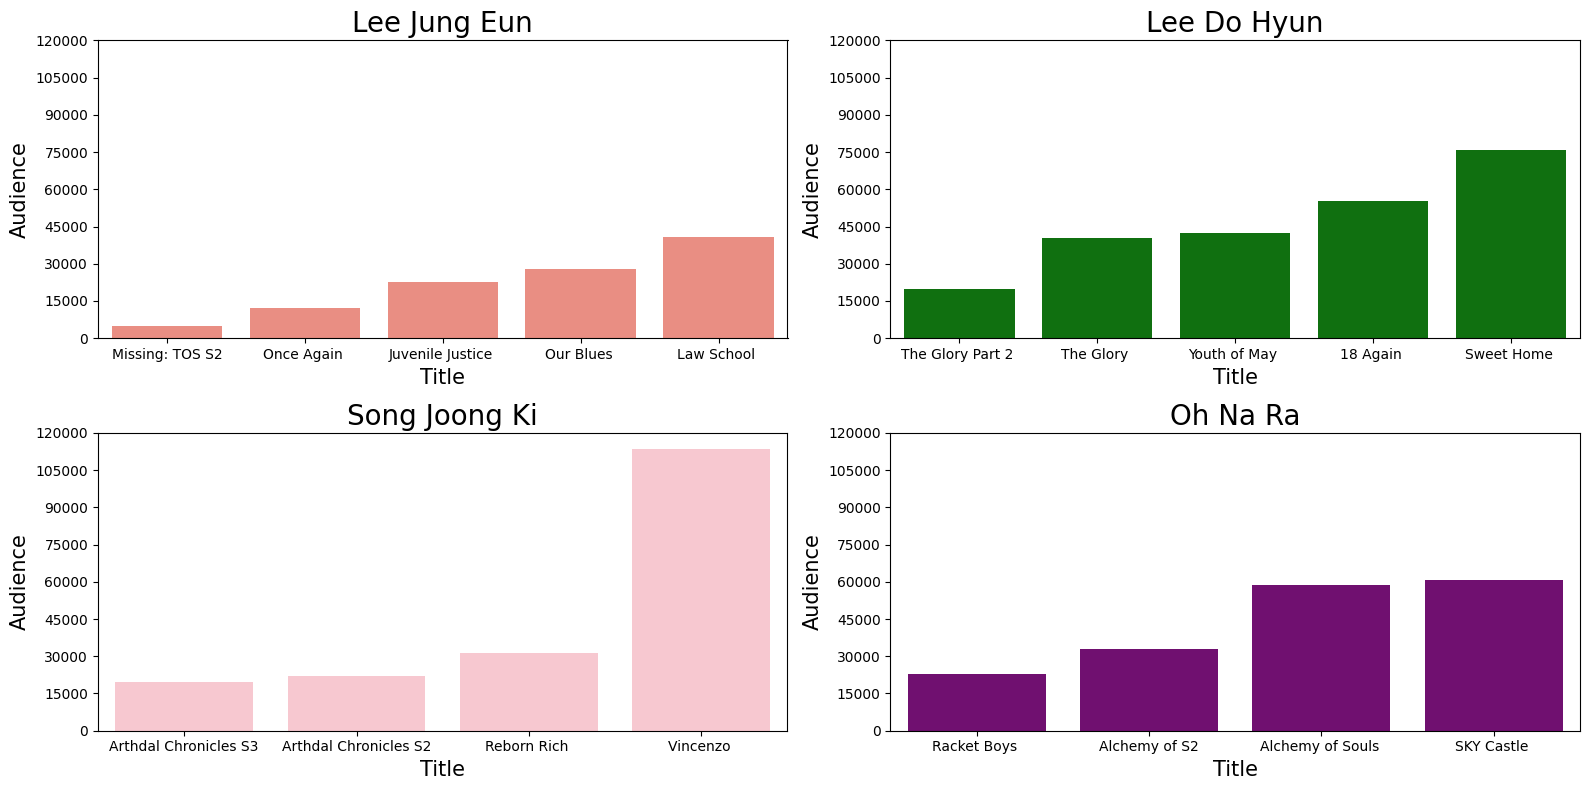
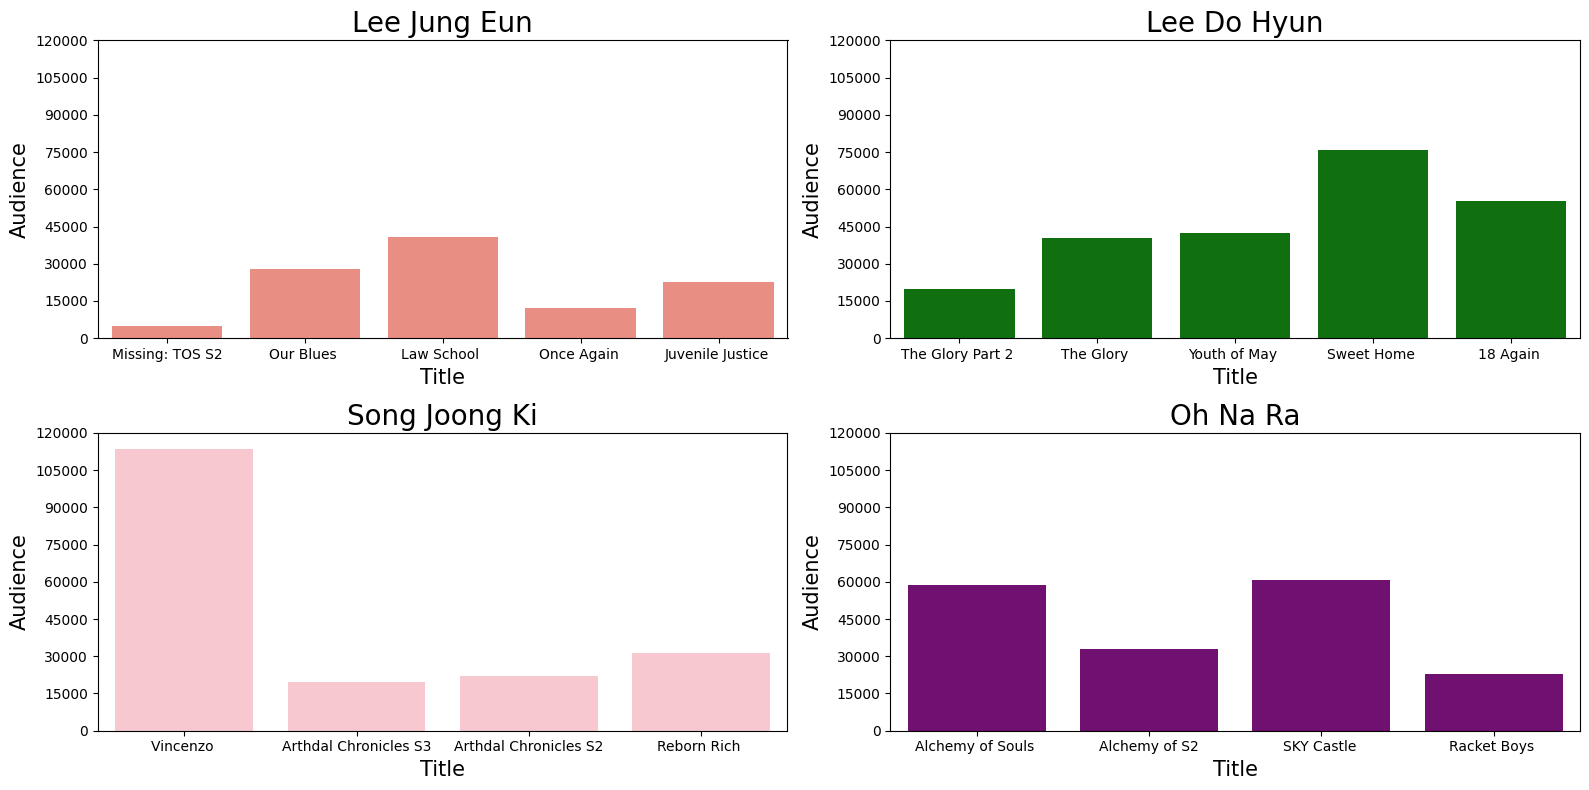
git     commit -m "Added Sorted_Watchers_vs_Title.png"

diff --git a/axehandmorgan.py b/axehandmorgan.py
@@ -63,9 +63,7 @@ axs = axs.flatten()
 colors = ['Salmon', 'Green', 'Pink', 'purple']
 
 for i, (name, group_df) in enumerate(grouped_dfs.items()):
-    truncated_titles = group_df['Title'].apply(lambda x: truncate_label(x, max_label_length))
-    
-    sns.barplot(y=group_df['Score'], x=truncated_titles, color=colors[i], ax=axs[i])
+    sns.barplot(y=group_df['Score'], x=group_df['Title'], color=colors[i], ax=axs[i])
     axs[i].set_ylabel('Score', fontsize=15)
     axs[i].set_xlabel('Title', fontsize=15)
     axs[i].set_title(name, fontsize=20)
@@ -86,9 +84,8 @@ colors = ['Salmon', 'Green', 'Pink', 'purple']
 for i, (name, group_df) in enumerate(grouped_dfs.items()):
     # Sort the group_df by 'Watchers' in descending order for consistent ordering
     sorted_group_df = group_df.sort_values(by='Watchers', ascending=True)
-    truncated_titles = sorted_group_df['Title'].apply(lambda x: truncate_label(x, max_label_length))
     
-    sns.barplot(y=sorted_group_df['Watchers'], x=truncated_titles, color=colors[i], ax=axs[i])
+    sns.barplot(y=sorted_group_df['Watchers'], x=group_df['Title'], color=colors[i], ax=axs[i])
     axs[i].set_ylabel('Audience', fontsize=15)
     axs[i].set_xlabel('Title', fontsize=15)
     axs[i].set_title(name, fontsize=20)
